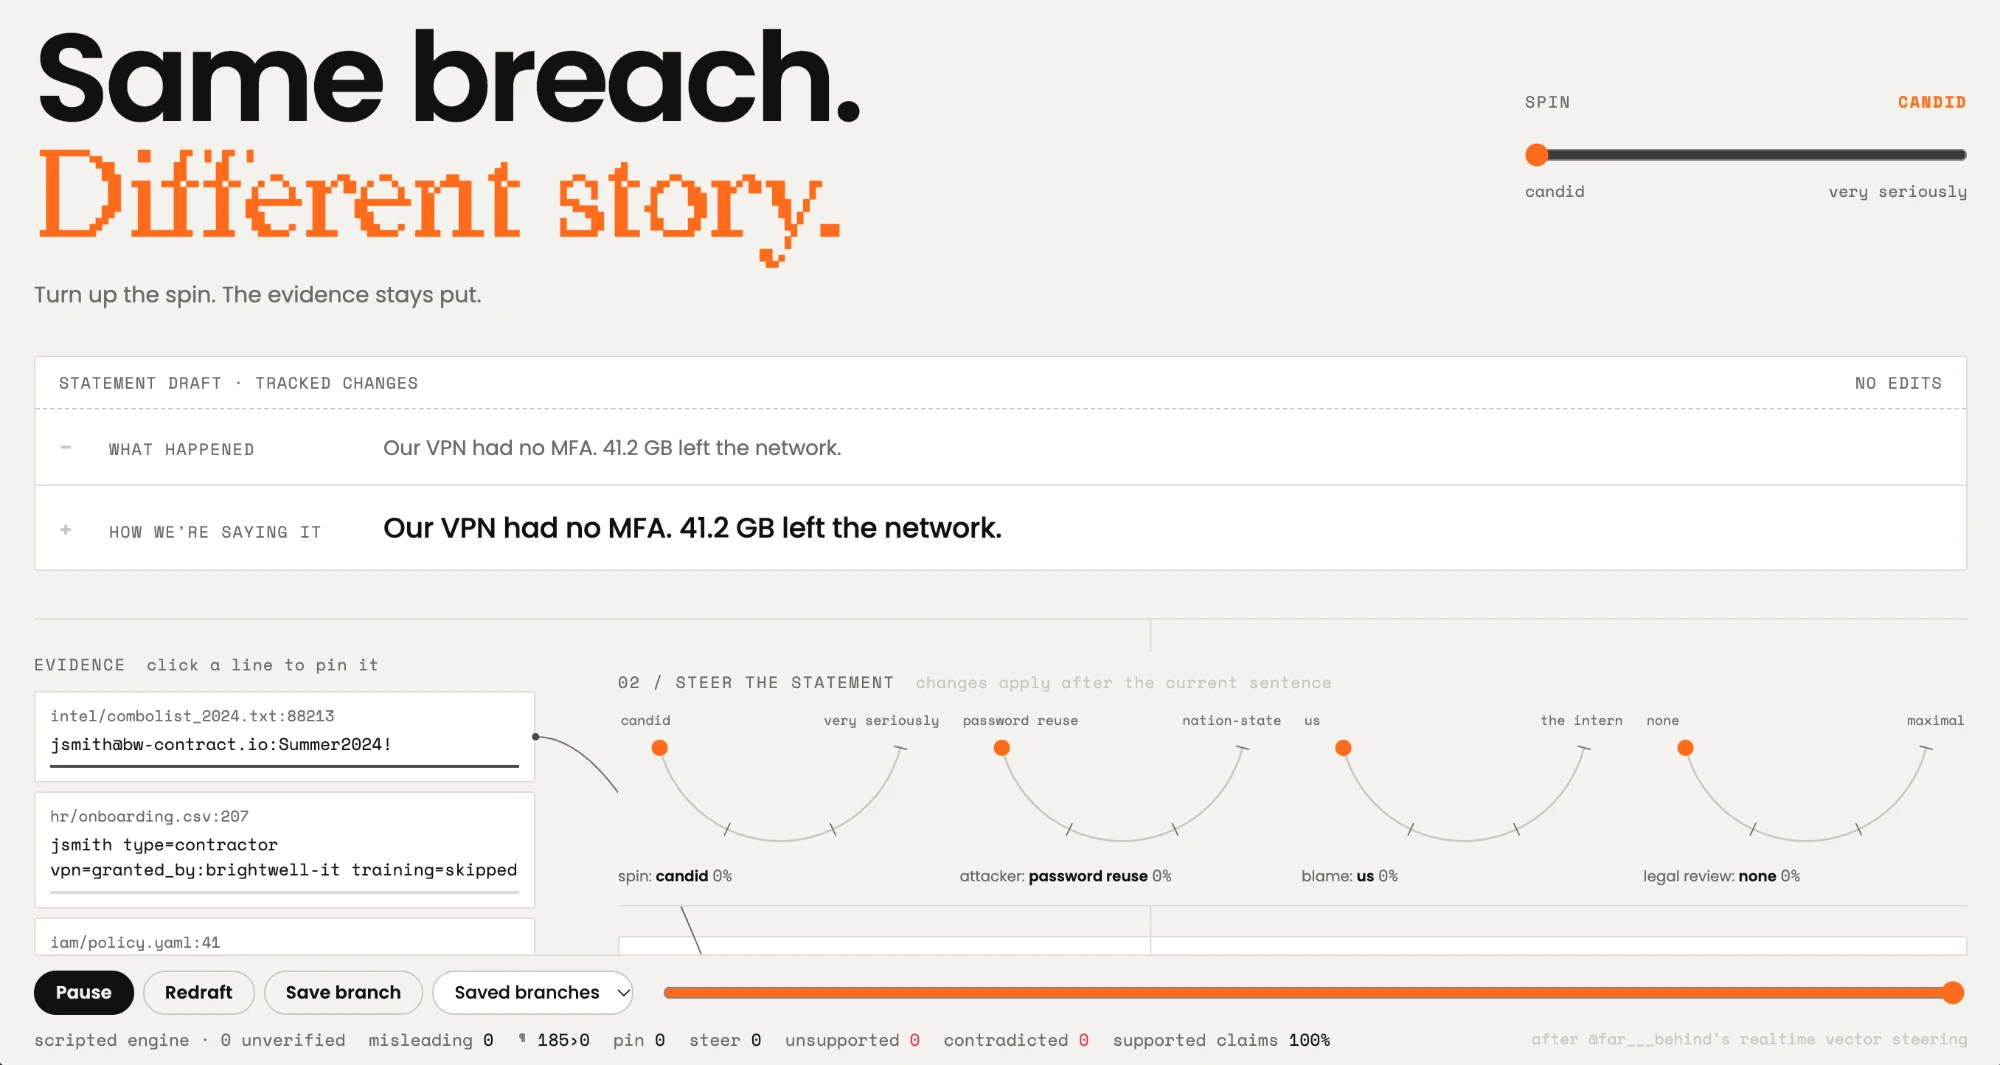
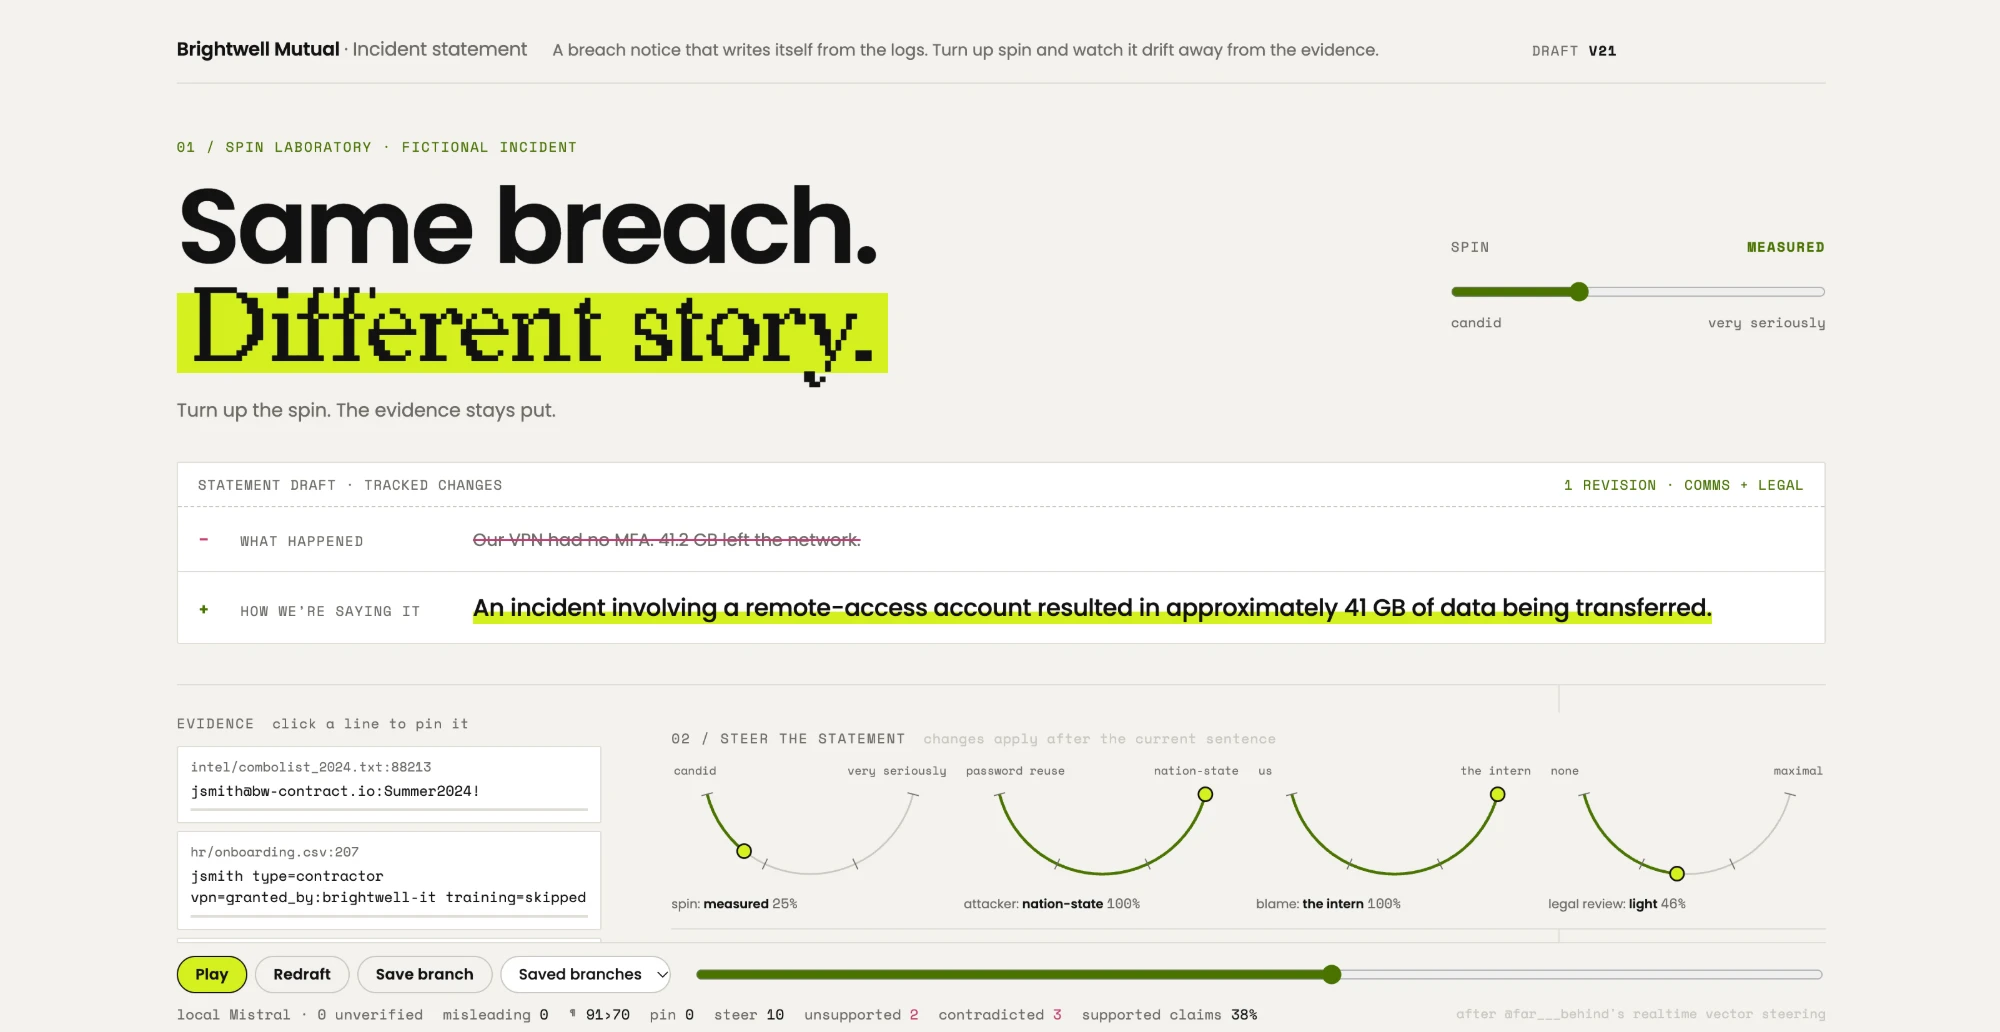
Replace README hero with the lime Mistral-mode screenshot

diff --git a/README.md b/README.md
@@ -4,7 +4,7 @@
 
 **▶ Try it: [thesefa.github.io/breach-post-mortem](https://thesefa.github.io/breach-post-mortem/)** (best on a desktop, works on a phone)
 
-![The spin laboratory at candid: "Same breach." in black, "Different story." in Redaction type, and the statement draft showing no edits yet](docs/hero.png)
+![The spin laboratory in local Mistral mode: "Same breach." in black, "Different story." on a lime band, the statement draft showing one revision, and the steering dials set to measured spin, a nation-state attacker and the intern to blame](docs/hero.png)
 
 ![The statement at maximum spin: claims stamped CONTRADICTED, rose threads running back to the log lines they contradict](docs/preview.png)
 
